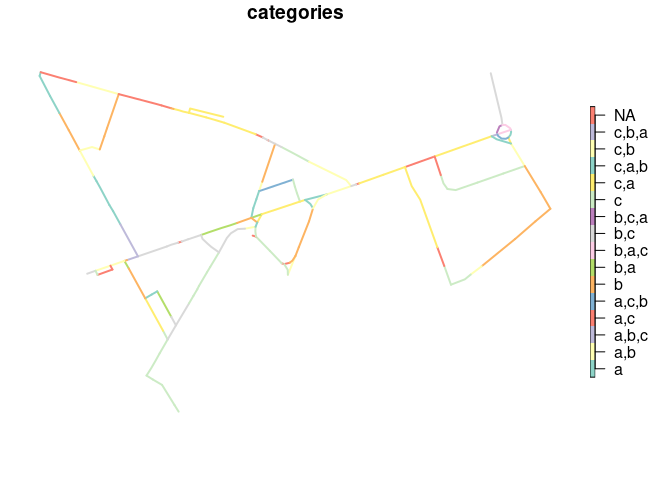
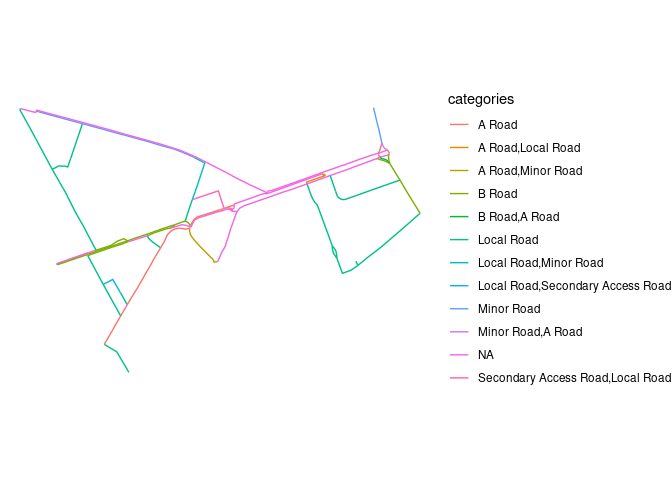
Example with road type

diff --git a/README.md b/README.md
@@ -50,24 +50,6 @@ Datasets were take from a few case study areas.
 
 We’ll focus on Thornbury, West Yorkshire for now.
 
-    Reading layer `open_roads_thornbury' from data source 
-      `/home/robin/github/acteng/network-join-demos/data/open_roads_thornbury.gpkg' 
-      using driver `GPKG'
-    Simple feature collection with 421 features and 20 fields
-    Geometry type: LINESTRING
-    Dimension:     XY
-    Bounding box:  xmin: 418537.8 ymin: 433158 xmax: 420517 ymax: 435028.6
-    Projected CRS: OSGB36 / British National Grid
-
-    Reading layer `pct_thornbury' from data source 
-      `/home/robin/github/acteng/network-join-demos/data/pct_thornbury.gpkg' 
-      using driver `GPKG'
-    Simple feature collection with 95 features and 1 field
-    Geometry type: LINESTRING
-    Dimension:     XY
-    Bounding box:  xmin: 418585.9 ymin: 433201.9 xmax: 420499.9 ymax: 434468.5
-    Projected CRS: OSGB36 / British National Grid
-
 ![](README_files/figure-commonmark/load-data-thornbury-1.png)
 
 # Subsetting the target ‘x’ network (optional)
@@ -116,11 +98,11 @@ The results are based on ‘flat headed’ buffers around the x geometry,
 with results kept in this form in the output, as shown in the table and
 figure below.
 
-|     | id                                   | flow | length_y |
-|:----|:-------------------------------------|-----:|---------:|
-| 1   | 0306E7A4-C705-4776-A357-CA58B64396FA |    0 | 9.832566 |
-| 1.1 | 0306E7A4-C705-4776-A357-CA58B64396FA |    0 | 9.832566 |
-| 2   | 030E661F-4DAE-470F-807C-52B69BE295B3 |    3 | 9.464192 |
+| id                                   | flow | length_y |
+|:-------------------------------------|-----:|---------:|
+| 0306E7A4-C705-4776-A357-CA58B64396FA |    0 | 9.832566 |
+| 0306E7A4-C705-4776-A357-CA58B64396FA |    0 | 9.832566 |
+| 030E661F-4DAE-470F-807C-52B69BE295B3 |    3 | 9.464192 |
 
 ![](README_files/figure-commonmark/unnamed-chunk-10-1.png)
 
@@ -145,27 +127,34 @@ capturing the majority of the flow in the `y` network, with the
 `segment_length` parameter allowing the user to control the level of
 detail in the output. Users have full control over the aggregating
 functions used, which can be useful for different use cases, e.g. to
-classify the highway type, as shown in the code snippet below.
+classify the highway type, as shown in the code snippet below, which
+demonstrates the function’s ability to work in either direction (x and y
+can be swapped).
 
 ``` r
-net_y$characters = sample(letters[1:3], nrow(net_y), replace = TRUE)
-rnet_joined = stplanr::rnet_join(net_x_subset_20, net_y, dist = 15, segment_length = 10)
+net_y = sf::read_sf("data/open_roads_thornbury.gpkg") |>
+  transmute(road_function = road_function)
+net_x = sf::read_sf("data/pct_thornbury.gpkg") |>
+  transmute(id = 1:n())
+net_x = stplanr::rnet_subset(net_x, net_y, dist = 20)
+net_y_split = stplanr::line_segment(net_y, segment_length = 10, use_rsgeo = FALSE)
+rnet_joined = stplanr::rnet_join(net_x, net_y_split, segment_length = 0)
 rnet_joined_values = rnet_joined |>
   sf::st_drop_geometry() |>
   group_by(id) |>
-  mutate(flow_distance = flow * length_y) |>
   summarise(
-    flow_distance = sum(flow_distance, na.rm = TRUE),
-    categories = paste0(unique(characters), collapse = ",")
+    categories = paste0(unique(road_function), collapse = ",")
     )
-rnet_joined_x = left_join(net_x_subset_20, rnet_joined_values, by = "id")
+rnet_joined_x = left_join(net_x, rnet_joined_values, by = "id")
 # rnet_joined_x |>
 #   ggplot() +
 #   geom_sf(aes(fill = categories), colour = NA) +
 #   theme_void()
 rnet_joined_x |>
   select(categories) |>
-  plot(lwd = 2)
+  ggplot() +
+  geom_sf(aes(colour = categories)) +
+  theme_void()
 ```
 
 ![](README_files/figure-commonmark/rnet-join-classify-1.png)
